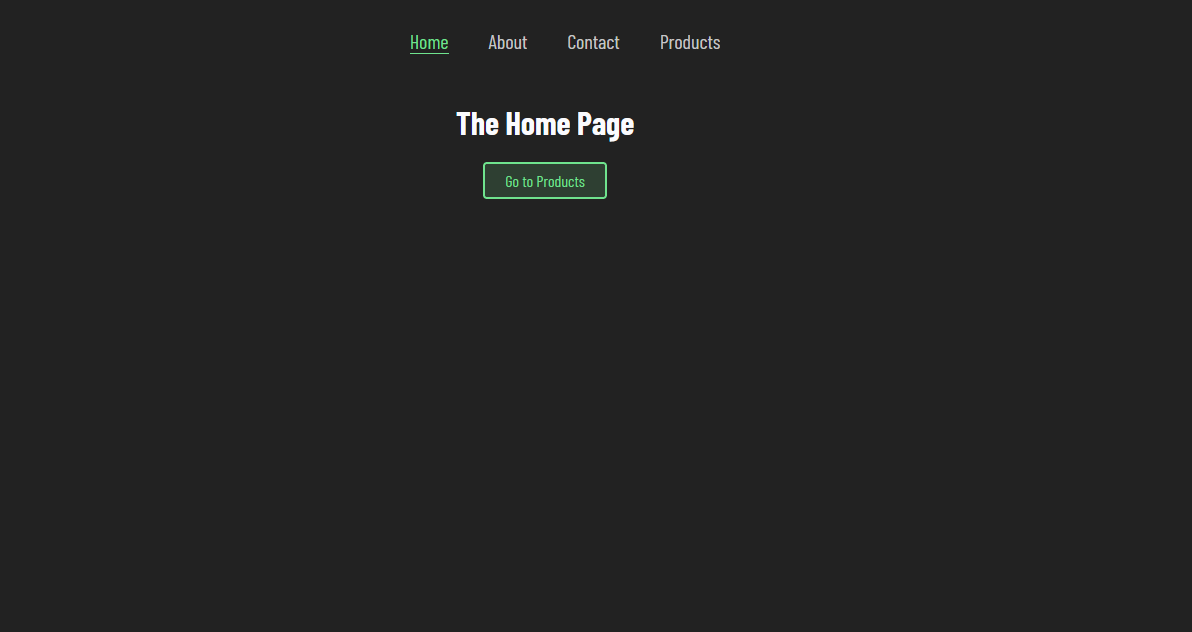
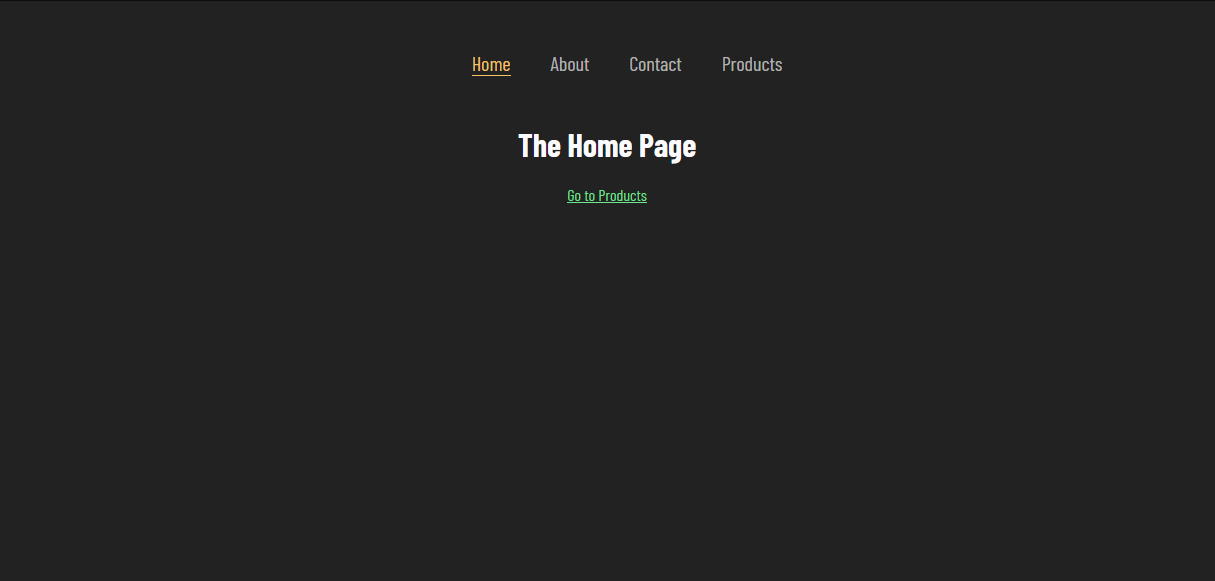
.

diff --git a/src/index.css b/src/index.css
@@ -4,7 +4,7 @@
 :root {
   --green: rgb(111, 227, 142);
   --dark-green: rgb(9, 206, 61);
-  --yellow: #f1bb55;
+  --yellow: #f6c366;
 }
 
 *,
